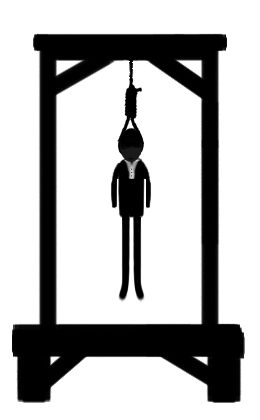
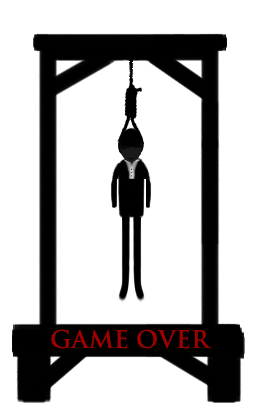
Updated javascript and images

Changed region(s): [[0.1846, 0.7738, 0.4923, 0.8357], [0.5231, 0.7738, 0.8, 0.8357]]

diff --git a/assets/javascript/game.js b/assets/javascript/game.js
@@ -5,7 +5,9 @@ window.onload = function(){
 					  "highway", "microphone", "headphones", "pillow", "painting", "tissue", "keyboard", "piano", "mouse", "rabbit", "grizzly", "mountain", "television", "javascript"];
 	var randomWord = wordArray[Math.floor(Math.random() * wordArray.length)];
 	var chosenWord;
+	var guessedLetter;
 	var count = 1;
+	var wordArray = [];
 	var guesses = [];
 
 	startGame();
@@ -14,9 +16,9 @@ window.onload = function(){
 
 	function startGame(){
 		for (var i = 0; i < randomWord.length; i++){
-			guesses[i] = "_";
+			wordArray[i] = "_";
 		}
-		chosenWord = guesses.join(" ");
+		chosenWord = wordArray.join(" ");
 		document.getElementById("empty").innerHTML = chosenWord;
 	}
 	
@@ -24,21 +26,20 @@ window.onload = function(){
 
 	document.onkeyup = function(event){
 		var userGuess = event.key;
-			if (userGuess.length > 0){
 				for (var i = 0; i < randomWord.length; i++){
 					if (randomWord[i] === userGuess){
-						
-					}
-					else {
-						wrongAnswer();
+						guesses.push(userGuess)
+						wordArray[i] = userGuess;
+						chosenWord = wordArray.join(" ");
+						document.getElementById("empty").innerHTML = chosenWord;
+						guessedLetter = guesses.join(" ");
+						document.getElementById("guesses").innerHTML = guessedLetter;
 					}
 				}
 			}
-	}
 
 	function wrongAnswer(){
-
-			document.getElementById("hang").src="assets/images/Hang-" + (count) + ".png"
+			document.getElementById("hang").src="assets/images/Hang-" + (count) + ".png";
 		}	
 
 }

diff --git a/index.html b/index.html
@@ -16,6 +16,9 @@
 			<div id="imgContainer">
 				<img id="hang" src="assets/images/Hang-1.png">
 			</div>
+		<h1>Guesses</h1>
+			<div id="guesses">
+			</div>
 		</div>
 
 <script src="assets/javascript/game.js"></script>
